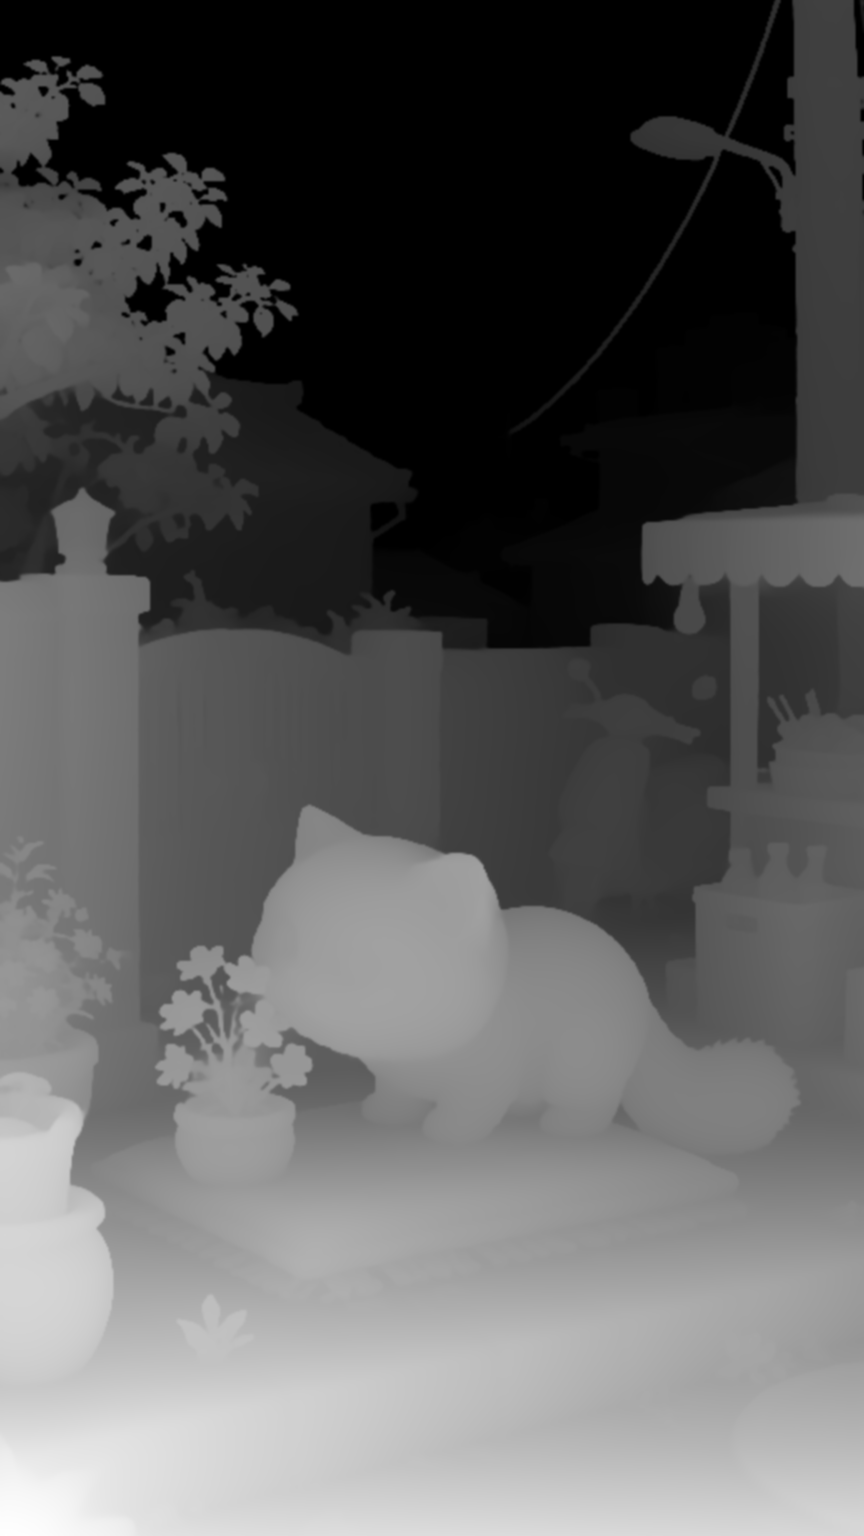
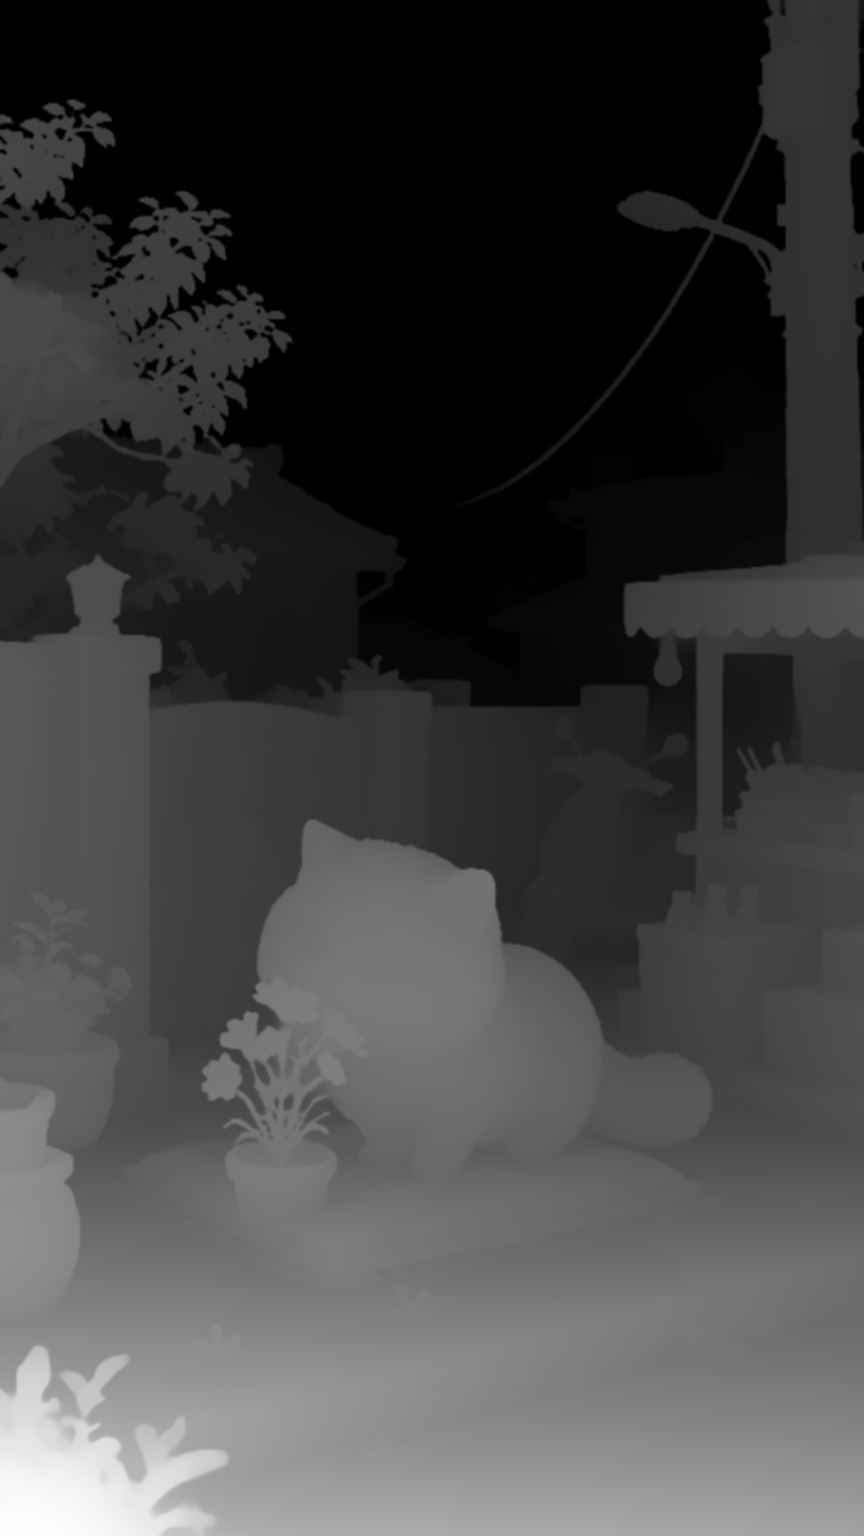
nila2dio: regenerate at tuned scale (white munchkin, cushion-anchored)
New nila_source from the finalized 2-step prompt: white long-haired munchkin sniffing
blue flowers, cushion anchored small and cat at ~60% of it. Cat screen share 8%->7%,
height 23% — matches the cherry reference. White silhouette still separates cleanly via
the dark-gate contrast rule. Rebuilt the lockscreen; clean at tilt.

diff --git a/index.html b/index.html
@@ -11,7 +11,7 @@
     <meta name="apple-mobile-web-app-title" content="Cat Lock" />
     <meta name="apple-mobile-web-app-status-bar-style" content="black-translucent" />
     <link rel="manifest" href="./manifest.webmanifest" />
-    <link rel="stylesheet" href="./style.css?v=mesh-50" />
+    <link rel="stylesheet" href="./style.css?v=mesh-51" />
     <title>Cat Depth Lock</title>
     <script type="importmap">
       {
@@ -55,6 +55,6 @@
     </main>
 
     <script src="https://unpkg.com/lucide@0.468.0/dist/umd/lucide.min.js" defer></script>
-    <script type="module" src="./app.js?v=mesh-50"></script>
+    <script type="module" src="./app.js?v=mesh-51"></script>
   </body>
 </html>
